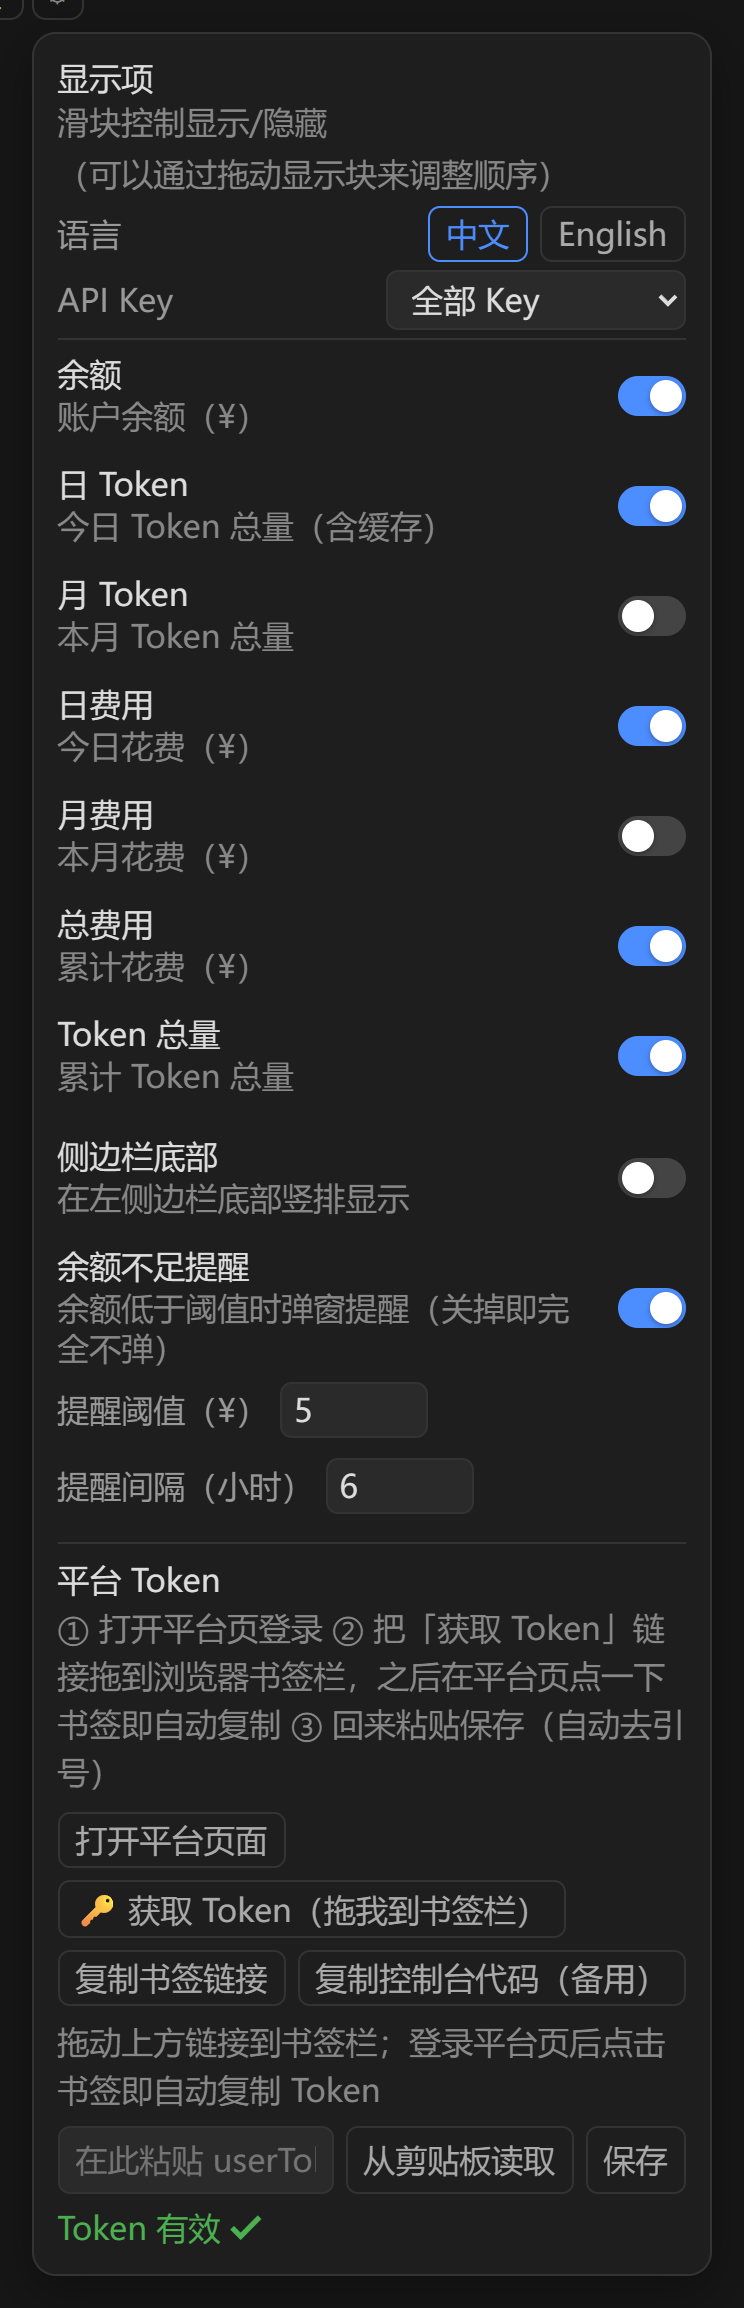
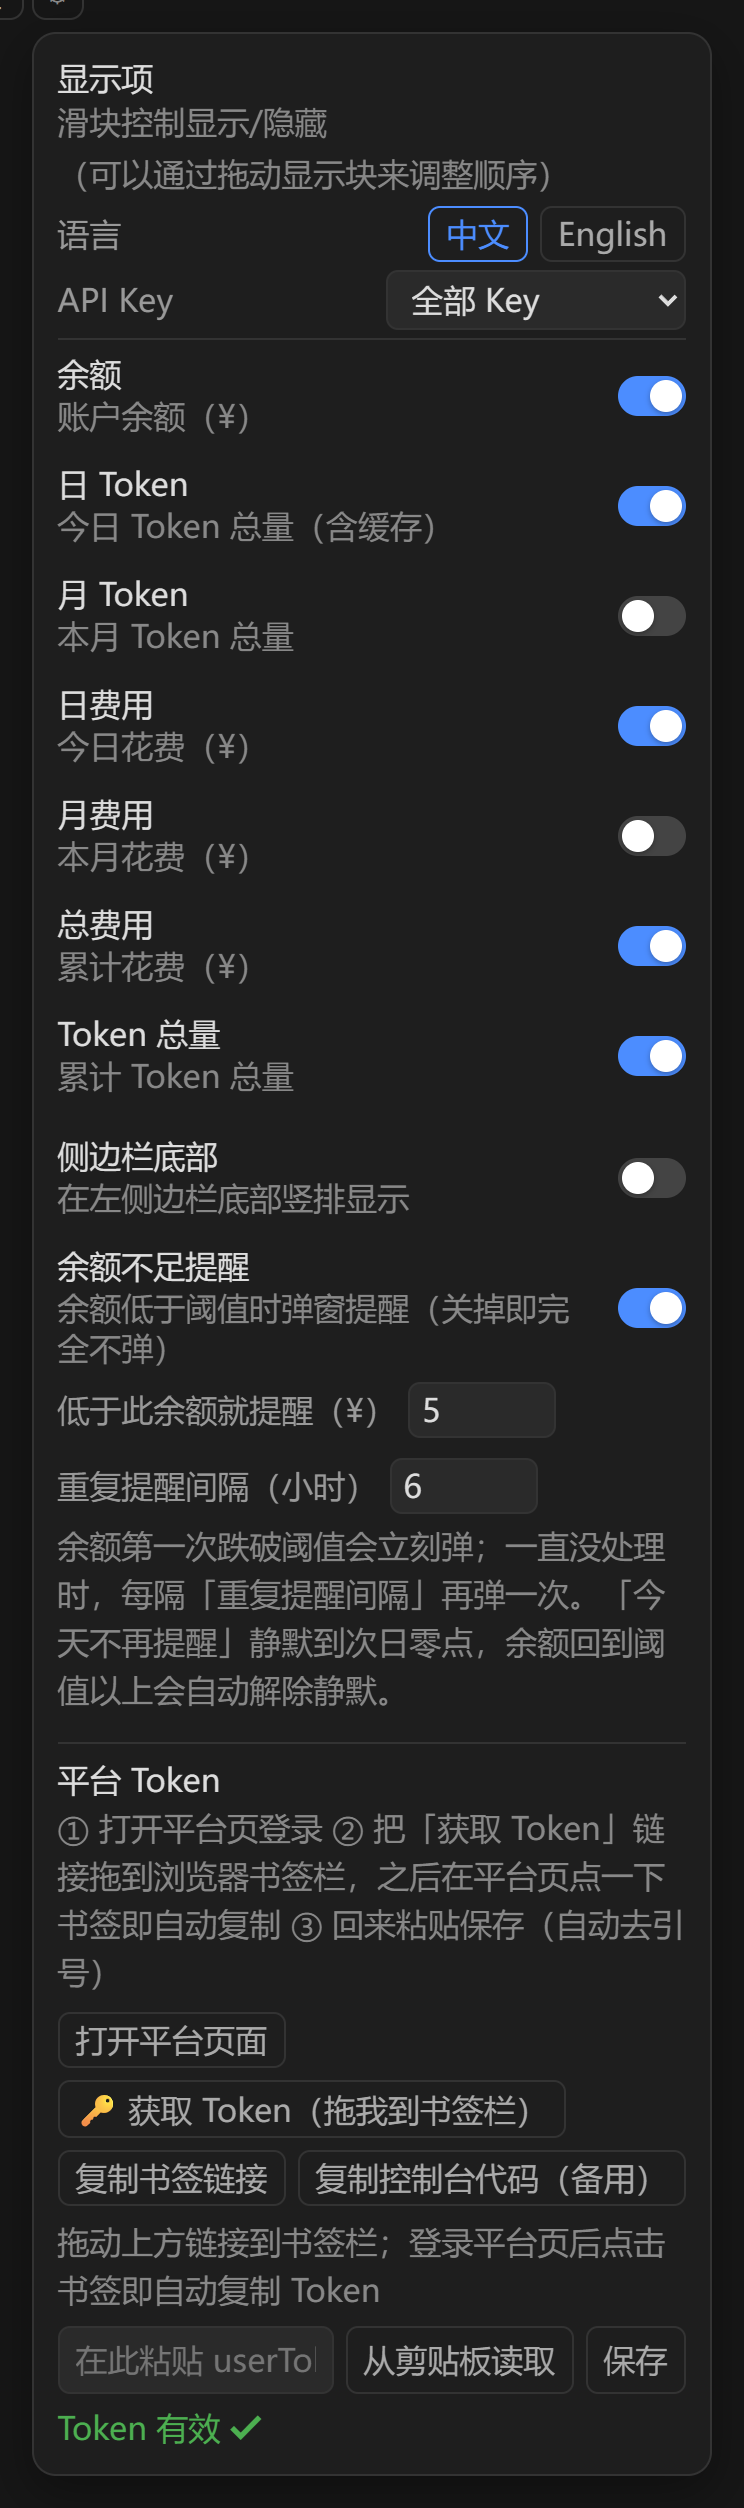
fix: 拖动后不再残留焦点环；余额提醒文案与说明写清楚

diff --git a/lib/client.js b/lib/client.js
@@ -45,8 +45,9 @@ window.__ModuleLoader__.load({
 			"cfg.drag.hint": "（可以通过拖动显示块来调整顺序）",
 			"cfg.lowBalance": "余额不足提醒",
 			"cfg.lowBalance.desc": "余额低于阈值时弹窗提醒（关掉即完全不弹）",
-			"cfg.lowBalance.threshold": "提醒阈值（¥）",
-			"cfg.lowBalance.interval": "提醒间隔（小时）",
+			"cfg.lowBalance.threshold": "低于此余额就提醒（¥）",
+			"cfg.lowBalance.interval": "重复提醒间隔（小时）",
+			"cfg.lowBalance.hint": "余额第一次跌破阈值会立刻弹；一直没处理时，每隔「重复提醒间隔」再弹一次。「今天不再提醒」静默到次日零点，余额回到阈值以上会自动解除静默。",
 			"alert.title": "余额不足",
 			"alert.balance": "当前余额",
 			"alert.threshold": "提醒阈值",
@@ -132,8 +133,9 @@ window.__ModuleLoader__.load({
 			"cfg.drag.hint": "(You can drag the blocks to change their order.)",
 			"cfg.lowBalance": "Low-balance alert",
 			"cfg.lowBalance.desc": "Popup when the balance drops below the threshold (turn off to disable)",
-			"cfg.lowBalance.threshold": "Threshold (¥)",
-			"cfg.lowBalance.interval": "Remind every (hours)",
+			"cfg.lowBalance.threshold": "Alert below this balance (¥)",
+			"cfg.lowBalance.interval": "Repeat reminder interval (hours)",
+			"cfg.lowBalance.hint": "The first drop below the threshold pops up right away; while the balance stays below it, the popup repeats once per \"repeat reminder interval\". \"Don't remind me today\" stays quiet until midnight, and the mute clears automatically once the balance is back above the threshold.",
 			"alert.title": "Low balance",
 			"alert.balance": "Current balance",
 			"alert.threshold": "Threshold",
@@ -399,6 +401,29 @@ window.__ModuleLoader__.load({
 		}
 		function useCfg() {
 			return react.useSyncExternalStore(subscribeCfg, getCfg);
+		}
+		/**
+		 * 信息段的类名 + 一次性注入的小样式表。
+		 *
+		 * 内联样式写不了伪类：长按会让按钮成为焦点元素，鼠标操作结束后 Chromium 仍会画焦点环
+		 * （看起来就是"拖完残留一圈白框，再点一下才消失"）。这里默认不画环，只在键盘聚焦
+		 * （`:focus-visible`）时画一个明确的环，别把键盘可访问性一起丢掉。
+		 */
+		const SEG_CLASS = "dsm-usage-seg";
+		let segStyleInjected = false;
+		function ensureSegStyle() {
+			if (segStyleInjected) return;
+			segStyleInjected = true;
+			try {
+				const el = document.createElement("style");
+				el.setAttribute("data-dsm-usage", "seg");
+				el.textContent =
+					"." + SEG_CLASS + "{outline:none}" +
+					"." + SEG_CLASS + ":focus-visible{outline:2px solid var(--dsw-alias-accent,#4c8dff);outline-offset:1px}";
+				document.head.appendChild(el);
+			} catch {
+				/* 注入失败就退回浏览器默认行为 */
+			}
 		}
 		//#endregion
 
@@ -882,6 +907,7 @@ window.__ModuleLoader__.load({
 				"button",
 				{
 					type: "button",
+					className: SEG_CLASS,
 					ref: props.segRef,
 					style: { ...S.seg, ...(hover ? S.segHover : {}), ...(props.dragging ? S.segDrag : {}) },
 					onMouseEnter: () => setHover(true),
@@ -1106,6 +1132,10 @@ window.__ModuleLoader__.load({
 					return;
 				}
 				if (!drag) return;
+				if (e.buttons === 0) {
+					endDrag(); // 在窗口外松手收不到 pointerup，这里兜底，别让拖动态卡住
+					return;
+				}
 				let target = 0;
 				for (const k of visibleKeys()) {
 					if (k === drag.key) continue;
@@ -1122,6 +1152,9 @@ window.__ModuleLoader__.load({
 				const d = drag;
 				cancelPress();
 				setDrag(null);
+				// 长按会把块变成焦点元素，松手后浏览器会继续画焦点环（残留白框）——主动收掉
+				const active = document.activeElement;
+				if (active && active.classList && active.classList.contains(SEG_CLASS)) active.blur();
 				if (!d) return;
 				const cur = visibleKeys().indexOf(d.key);
 				if (cur < 0 || cur === d.target) return;
@@ -1588,23 +1621,36 @@ window.__ModuleLoader__.load({
 					}),
 					!!cfg.lowBalanceAlert &&
 						react.createElement(
-							"div",
-							{ style: { display: "flex", flexWrap: "wrap", gap: "10px", padding: "0 0 6px" } },
-							react.createElement(NumField, {
-								label: tr("cfg.lowBalance.threshold"),
-								value: cfg.lowBalanceThreshold,
-								min: 0,
-								max: 100000,
-								step: 1,
-								onChange: (v) => updateCfg("lowBalanceThreshold", v)
-							}),
-							react.createElement(NumField, {
-								label: tr("cfg.lowBalance.interval"),
-								value: Math.round((Number(cfg.lowBalanceIntervalMin) / 60) * 100) / 100,
-								min: 0.02,
-								max: 168,
-								step: 0.5,
-								onChange: (v) => updateCfg("lowBalanceIntervalMin", Math.max(1, Math.round(v * 60)))
+							react.Fragment,
+							null,
+							react.createElement(
+								"div",
+								{ style: { display: "flex", flexWrap: "wrap", gap: "10px", padding: "0 0 4px" } },
+								react.createElement(NumField, {
+									label: tr("cfg.lowBalance.threshold"),
+									value: cfg.lowBalanceThreshold,
+									min: 0,
+									max: 100000,
+									step: 1,
+									onChange: (v) => updateCfg("lowBalanceThreshold", v)
+								}),
+								react.createElement(NumField, {
+									label: tr("cfg.lowBalance.interval"),
+									value: Math.round((Number(cfg.lowBalanceIntervalMin) / 60) * 100) / 100,
+									min: 0.02,
+									max: 168,
+									step: 0.5,
+									onChange: (v) => updateCfg("lowBalanceIntervalMin", Math.max(1, Math.round(v * 60)))
+								})
+							),
+							react.createElement("div", {
+								style: {
+									font: F.tiny,
+									color: "var(--dsw-alias-label-tertiary, #888)",
+									lineHeight: "1.5",
+									padding: "0 0 6px"
+								},
+								children: tr("cfg.lowBalance.hint")
 							})
 						),
 					react.createElement(
@@ -1821,6 +1867,7 @@ window.__ModuleLoader__.load({
 		 * @param ctx - 客户端根上下文。
 		 */
 		function apply(ctx) {
+			ensureSegStyle();
 			ctx.effect(
 				() => ctx.locale.register("dsm", { zh, en }),
 				"ui-dsm-usage: dictionaries"
